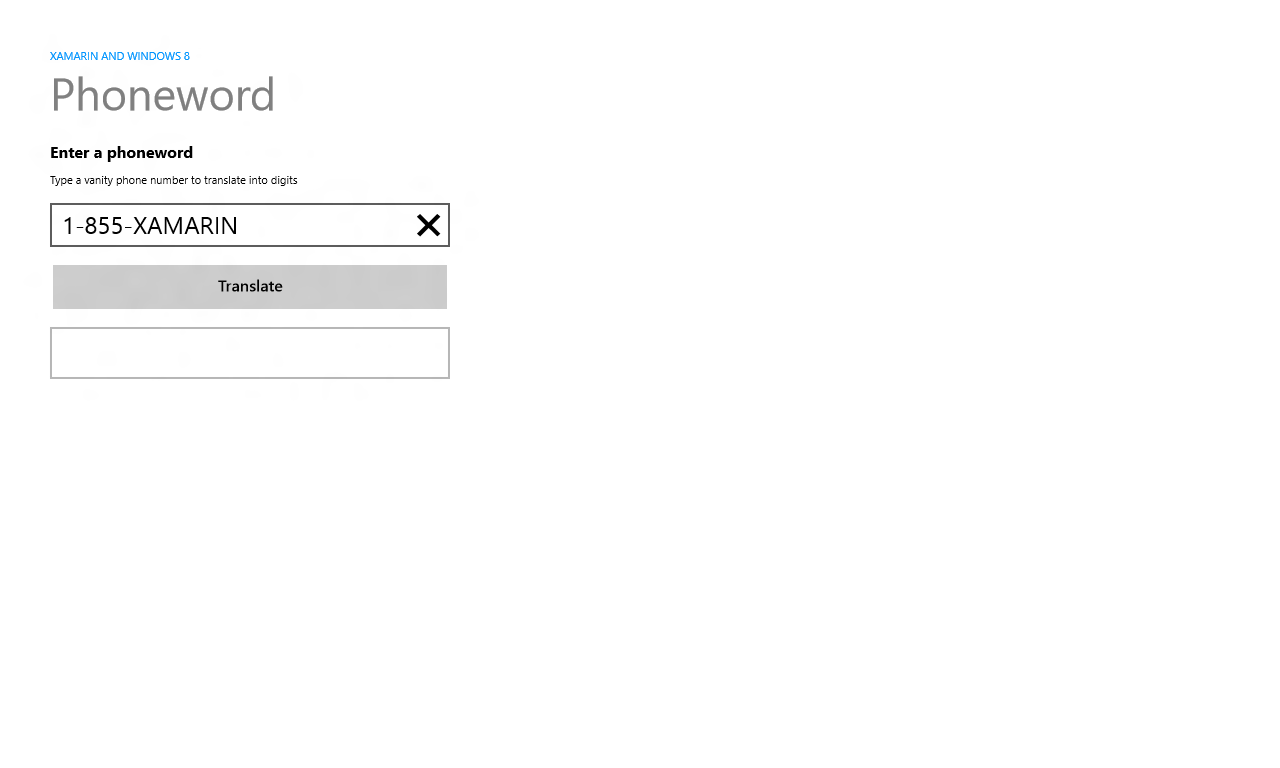
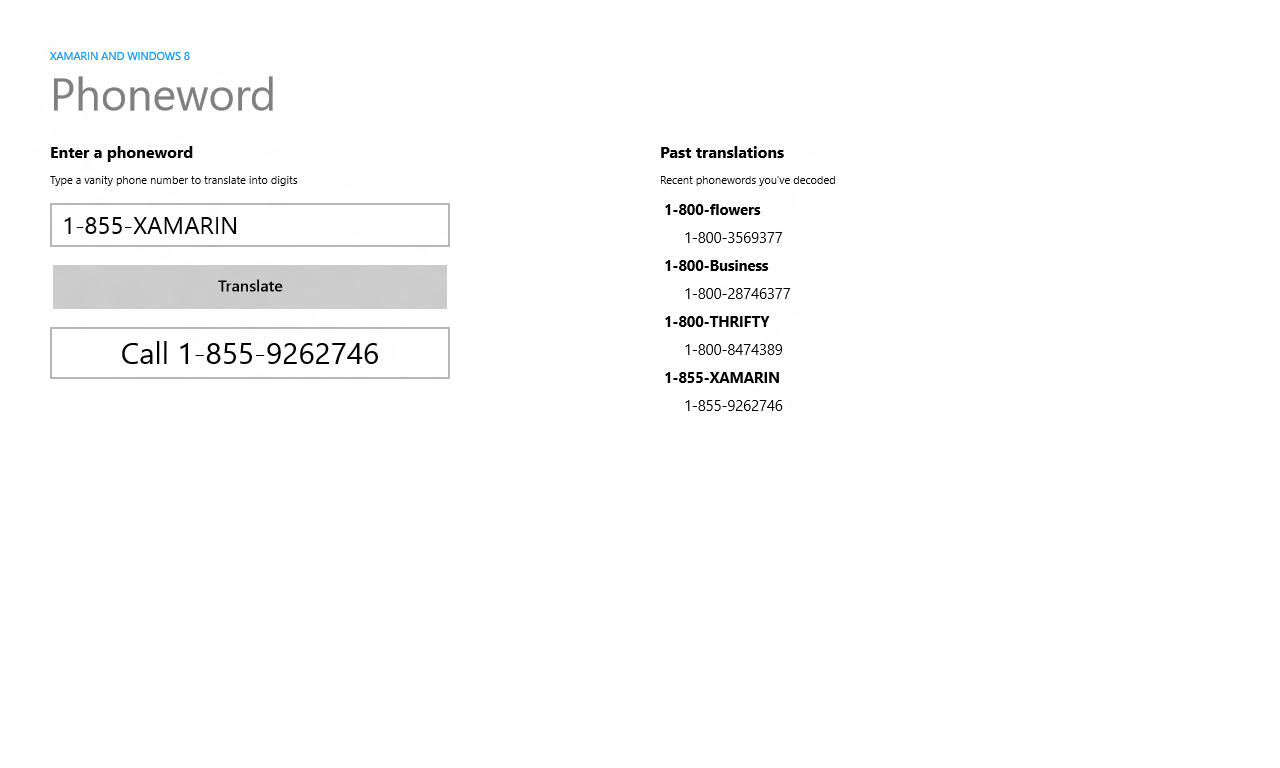
[Phoneword] Win8 shows a 'history' to use screen real-estate

Changed region(s): [[0.5, 0.1875, 0.6562, 0.5312], [0.0938, 0.4375, 0.3125, 0.4688], [0.3125, 0.2812, 0.3438, 0.3125]]

diff --git a/Phoneword/PhonewordWin8/MainPage.xaml b/Phoneword/PhonewordWin8/MainPage.xaml
@@ -74,6 +74,48 @@
                         Width="400" 
                         FontSize="30"/>
             </Grid>
+            
+            <Grid Grid.Row="1" Grid.Column="1">
+                <Grid.RowDefinitions>
+                    <RowDefinition Height="Auto" />
+                    <RowDefinition />
+                </Grid.RowDefinitions>
+                <StackPanel>
+                    <TextBlock 
+                        Foreground="Black"
+                        FontFamily="Segoe UI Light" FontSize="16" FontWeight="Bold"
+                        Text="Past translations" 
+                        />
+                    <TextBlock Margin="0,10,0,0"
+                        Foreground="Black"
+                        FontFamily="Segoe UI Light" 
+                        Text="Recent phonewords you've decoded" 
+                        />
+                </StackPanel>
+
+                <ListView Name="ListItems" Margin="0,10,0,0" 
+                          Grid.Row="1"
+                          SelectionMode="None"
+                          IsItemClickEnabled="true"
+                          ItemClick="ListItems_Click">
+                    <ListView.ItemTemplate>
+                        <DataTemplate>
+                            <StackPanel Orientation="Vertical">
+                                <TextBlock 
+                                    Foreground="Black"
+                                    FontFamily="Segoe UI Light" FontWeight="Bold"
+                                    Text="{Binding Phoneword}" 
+                                    />
+                                <TextBlock Margin="20,10,0,0"
+                                    Foreground="Black"
+                                    FontFamily="Segoe UI Light" 
+                                    Text="{Binding Phonenumber}" 
+                                    />
+                            </StackPanel>
+                        </DataTemplate>
+                    </ListView.ItemTemplate>
+                </ListView>
+            </Grid>
         </Grid>
     </Grid>
 </Page>

diff --git a/Phoneword/PhonewordWin8/MainPage.xaml.cs b/Phoneword/PhonewordWin8/MainPage.xaml.cs
@@ -1,9 +1,11 @@
 using System;
 using System.Collections.Generic;
+using System.Collections.ObjectModel;
 using System.IO;
 using System.Linq;
 using Windows.Foundation;
 using Windows.Foundation.Collections;
+using Windows.UI.Popups;
 using Windows.UI.Xaml;
 using Windows.UI.Xaml.Controls;
 using Windows.UI.Xaml.Controls.Primitives;
@@ -24,6 +26,12 @@ namespace PhonewordWin8
         public MainPage()
         {
             this.InitializeComponent();
+
+            Translations = new ObservableCollection<PhonewordTranslation>();
+
+            Translations.Add(new PhonewordTranslation() { Phoneword = "1-800-flowers",  Phonenumber = "1-800-3569377" });
+            Translations.Add(new PhonewordTranslation() { Phoneword = "1-800-Business", Phonenumber = "1-800-28746377" });
+            Translations.Add(new PhonewordTranslation() { Phoneword = "1-800-THRIFTY",  Phonenumber = "1-800-8474389" });
         }
 
         /// <summary>
@@ -33,19 +41,32 @@ namespace PhonewordWin8
         /// property is typically used to configure the page.</param>
         protected override void OnNavigatedTo(NavigationEventArgs e)
         {
+            ListItems.ItemsSource = Translations;
         }
+
         string translatedNumber;
+        public ObservableCollection<PhonewordTranslation> Translations;
+
         private void Translate_Click(object sender, RoutedEventArgs e)
         {
             if (!String.IsNullOrEmpty(PhoneNumberText.Text))
             {
                 translatedNumber = Core.PhonewordTranslator.ToNumber(PhoneNumberText.Text);
                 CallText.Text = "Call " + translatedNumber;
+
+                Translations.Add(new PhonewordTranslation() {Phoneword=PhoneNumberText.Text, Phonenumber=translatedNumber });
             }
             else
             {
                 CallText.Text = "";
             }
+        }
+
+        private void ListItems_Click(object sender, ItemClickEventArgs e)
+        {
+            var ci = e.ClickedItem as PhonewordTranslation;
+            var dialog = new MessageDialog( String.Format ("{0} translates to {1}", ci.Phoneword, ci.Phonenumber));
+            dialog.ShowAsync();
         }
     }
 }

diff --git a/Phoneword/PhonewordWin8/PhonewordTranslation.cs b/Phoneword/PhonewordWin8/PhonewordTranslation.cs
@@ -1,0 +1,14 @@
+using System;
+using System.Collections.Generic;
+using System.Linq;
+using System.Text;
+using System.Threading.Tasks;
+
+namespace PhonewordWin8
+{
+    public class PhonewordTranslation
+    {
+        public string Phoneword { get; set; }
+        public string Phonenumber { get; set; }
+    }
+}
